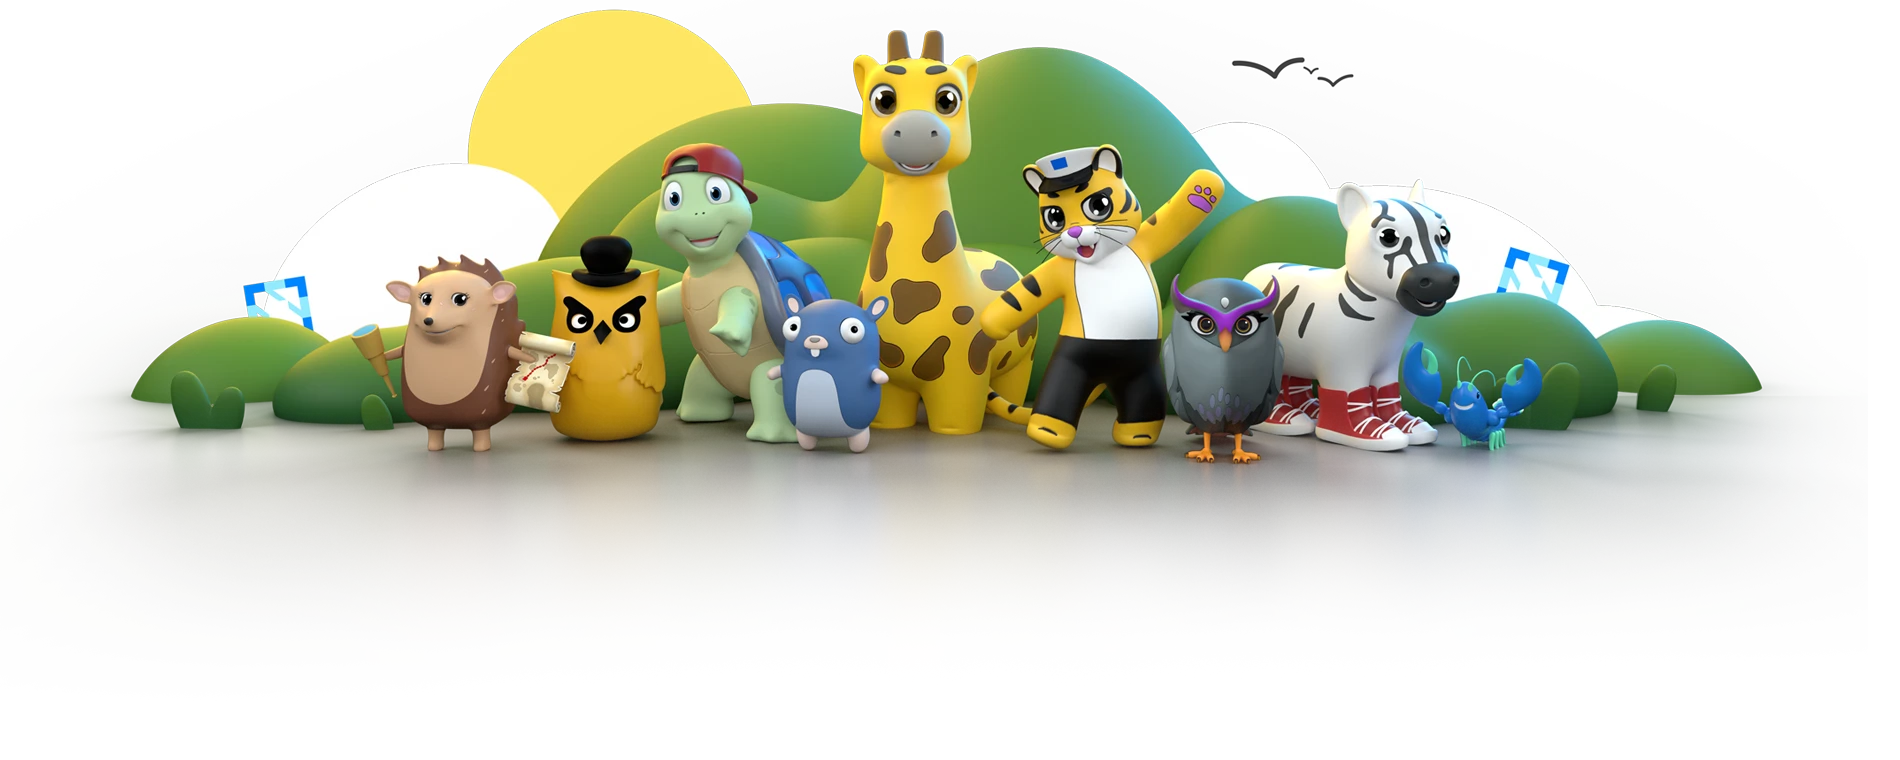
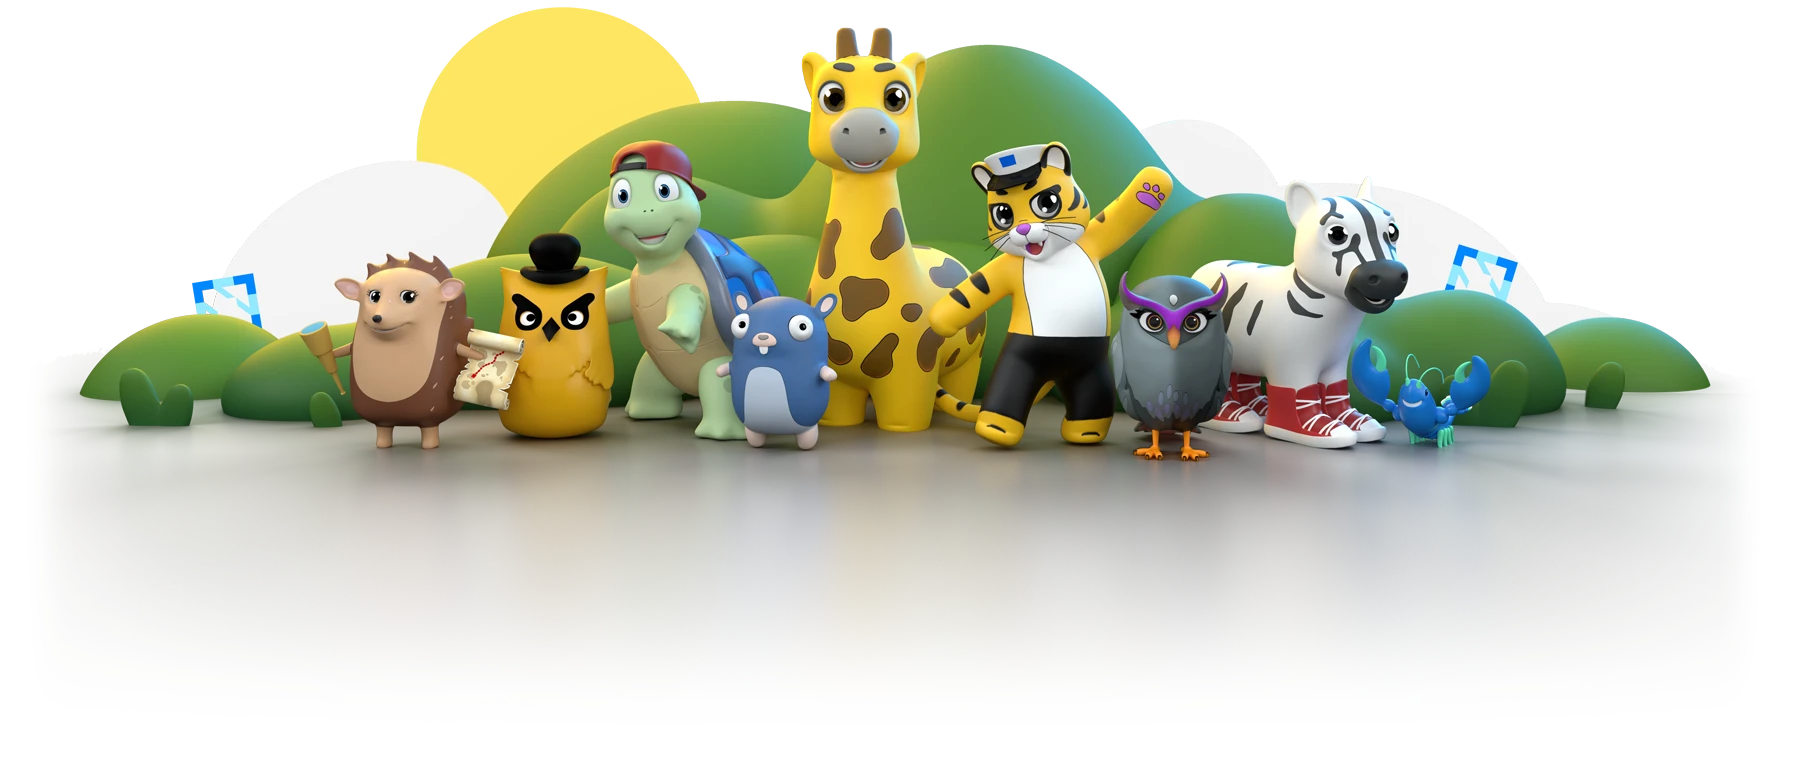
Updating Phippy footer image

diff --git a/web/wp-content/themes/cncf-twenty-two/source/scss/core/_footer.scss b/web/wp-content/themes/cncf-twenty-two/source/scss/core/_footer.scss
@@ -109,12 +109,17 @@
 }
 
 .phippy-footer {
-	// overflow: hidden;
-	background-color: #fdfdfd;
+	background-color: $gray-050;
+	@media (min-width: 1200px) {
+		margin-top: 20px;
+	}
 	&__container {
 		background-color: $black;
 		position: relative;
-		padding-bottom: 70px;
+		padding-bottom: 50px;
+		@media (min-width: 800px) {
+			padding-bottom: 80px;
+		}
 		@media (min-width: 1200px) {
 			padding-bottom: 130px;
 		}
@@ -126,12 +131,14 @@
 		@media (min-width: 1200px) {
 			max-width: $content-width;
 		}
+		@media (min-width: 1400px) {
+			max-width: calc(#{$content-width} + 100px);
+		}
 	}
 	&__image {
 		width: 100%;
 		position: relative;
 		pointer-events: none;
-		// z-index: 1;
 		height: auto;
 		display: block;
 		left: 50%;

diff --git a/web/wp-content/themes/cncf-twenty-two/source/scss/core/_forms.scss b/web/wp-content/themes/cncf-twenty-two/source/scss/core/_forms.scss
@@ -2,7 +2,6 @@ input[type='text'],
 input[type='email'],
 input[type='search'] {
 	height: 50px;
-	padding-left: 12px;
 	width: 100%;
 	border-radius: 3px;
 	-webkit-appearance: none;

diff --git a/web/wp-content/themes/cncf-twenty-two/components/footer.php b/web/wp-content/themes/cncf-twenty-two/components/footer.php
@@ -17,8 +17,8 @@ $site_options = get_option( 'lf-mu' );
 
 	<?php
 	if ( is_front_page() ) :
+		// Start Phippy footer.
 		?>
-	<!-- Start of phippy  -->
 	<div class="phippy-footer">
 
 		<div style="height:100px" aria-hidden="true" class="wp-block-spacer"
@@ -34,7 +34,7 @@ $site_options = get_option( 'lf-mu' );
 					" media="(min-width: 700px)" type="image/webp">
 					<source srcset="
 				<?php
-					Lf_Utils::get_image( 'phippy-family-footer-900x360.webp', true );
+					Lf_Utils::get_image( 'phippy-family-footer-900x380.webp', true );
 				?>
 					" type="image/webp">
 					<source srcset="
@@ -44,23 +44,23 @@ $site_options = get_option( 'lf-mu' );
 					" media="(min-width: 700px)" type="image/png">
 					<source srcset="
 				<?php
-					Lf_Utils::get_image( 'phippy-family-footer-900x360.png', true );
+					Lf_Utils::get_image( 'phippy-family-footer-900x380.png', true );
 				?>
 					" type="image/png">
 					<img src="
 				<?php
 					Lf_Utils::get_image( 'phippy-family-footer.png', true );
 				?>
-					" alt="Characters from Phippy family" width="1900" height="760"
+					" alt="Characters from Phippy family" width="1800" height="760"
 						class="phippy-footer__image" id="phippy-footer"
 						loading="lazy" decoding="async">
 				</picture>
 			</div>
 		</div>
 	</div>
-	<!-- end of phippy  -->
 		<?php
 		wp_enqueue_script( 'home-phippy', get_template_directory_uri() . '/source/js/on-demand/home-phippy.js', null, filemtime( get_template_directory() . '/source/js/on-demand/home-phippy.js' ), true );
+		// End of Phippy footer.
 	endif;
 	?>
 
